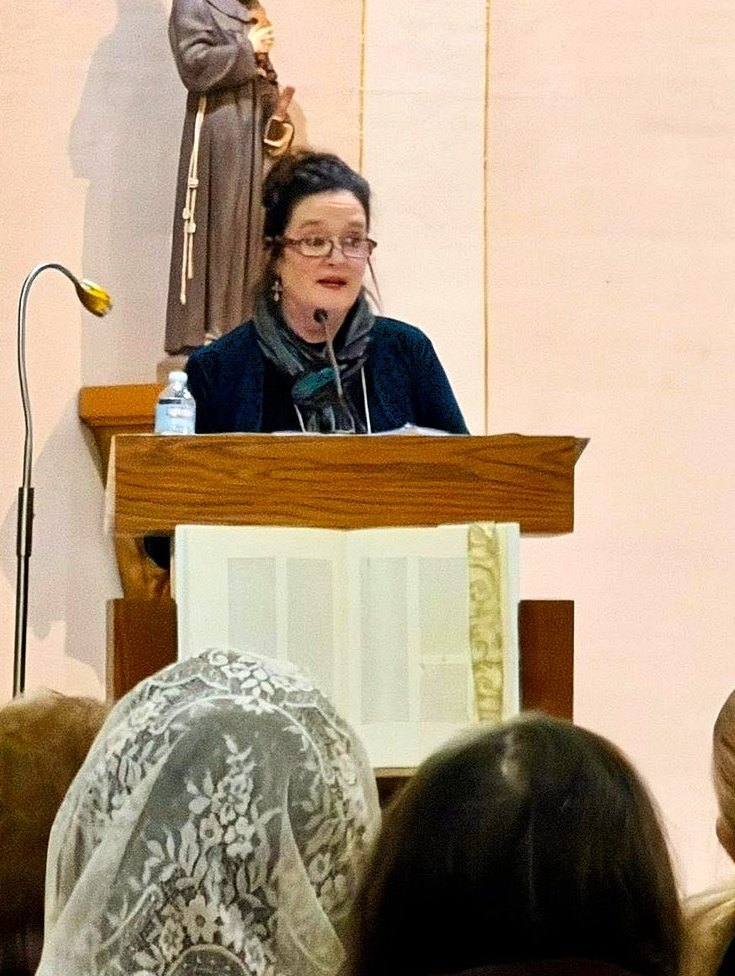
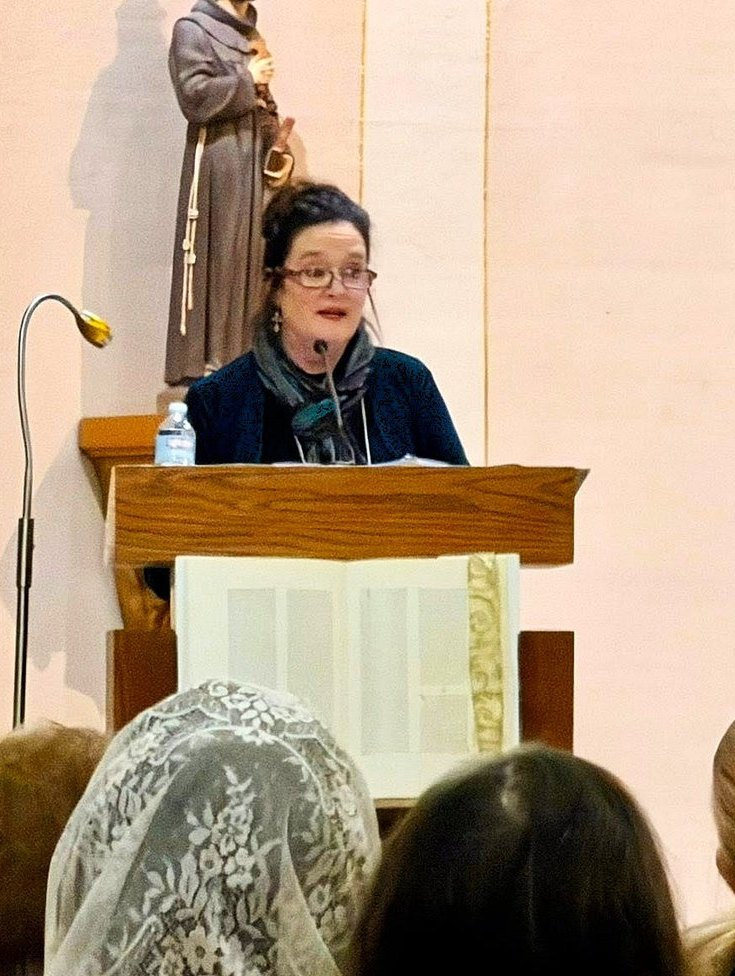
Morris tile: crop from very top and anchor object-position top so St. Francis statue head is never clipped

diff --git a/speaking.html b/speaking.html
@@ -1,4 +1,4 @@
-<!DOCTYPE html><html lang="en"><head><meta charset="UTF-8"/><meta name="viewport" content="width=device-width, initial-scale=1.0"/><title>Speaking &mdash; Roxane B. Salonen</title><meta name="description" content="Invite Roxane B. Salonen to speak: keynotes, retreats, writing workshops, and parish missions."/><meta property="og:title" content="Speaking &mdash; Roxane B. Salonen"/><meta property="og:description" content="Invite Roxane B. Salonen to speak: keynotes, retreats, writing workshops, and parish missions."/><meta property="og:type" content="website"/><link rel="preconnect" href="https://fonts.googleapis.com"><link rel="preconnect" href="https://fonts.gstatic.com" crossorigin><link href="https://fonts.googleapis.com/css2?family=Fraunces:ital,opsz,wght@0,9..144,300;0,9..144,400;0,9..144,500;0,9..144,600;1,9..144,300;1,9..144,400;1,9..144,500;1,9..144,600&family=Hanken+Grotesk:wght@400;500;600;700&family=Great+Vibes&display=swap" rel="stylesheet"><link rel="icon" href="favicon.svg" type="image/svg+xml"><link rel="icon" href="favicon-32.png" sizes="32x32" type="image/png"><link rel="apple-touch-icon" href="apple-touch-icon.png"><link rel="stylesheet" href="styles.css?v=166a2afe"></head><body><svg width="0" height="0" style="position:absolute" aria-hidden="true"><symbol id="rose" viewBox="0 0 100 100"><g fill="currentColor"><ellipse cx="50" cy="24" rx="8" ry="18" transform="rotate(0 50 50)"/><ellipse cx="50" cy="24" rx="8" ry="18" transform="rotate(45 50 50)"/><ellipse cx="50" cy="24" rx="8" ry="18" transform="rotate(90 50 50)"/><ellipse cx="50" cy="24" rx="8" ry="18" transform="rotate(135 50 50)"/><ellipse cx="50" cy="24" rx="8" ry="18" transform="rotate(180 50 50)"/><ellipse cx="50" cy="24" rx="8" ry="18" transform="rotate(225 50 50)"/><ellipse cx="50" cy="24" rx="8" ry="18" transform="rotate(270 50 50)"/><ellipse cx="50" cy="24" rx="8" ry="18" transform="rotate(315 50 50)"/></g><circle cx="50" cy="50" r="13" fill="#E0A92E"/><circle cx="50" cy="50" r="6" fill="#5a3a1a"/></symbol></svg><header class="nav"><div class="wrap nav-inner"><a class="brand" href="index.html"><svg class="bloom" viewBox="0 0 100 100" style="color:var(--rose)"><use href="#rose"/></svg>Roxane&nbsp;B.&nbsp;Salonen</a><nav class="nav-links" id="navlinks"><a href="about.html">About</a><a href="media.html">Seen &amp; Heard</a><a href="writings.html">Writings</a><a href="speaking.html" class="active">Speaking</a><a href="books.html">Books</a><a href="awards.html">Awards</a><a href="photos.html">Photos</a><a class="nav-cta" href="contact.html">Invite to speak</a></nav><button class="menu-btn" id="menuBtn" aria-label="Menu" aria-expanded="false"><svg viewBox="0 0 24 24" fill="none" stroke="currentColor" stroke-width="2"><path d="M3 6h18M3 12h18M3 18h18"/></svg></button></div></header><section class="page-head page-head-photo"><div class="wrap"><div class="ph-grid"><div class="inner reveal"><div class="crumb"><a href="index.html">Home</a> &middot; Speaking</div><h1>Invite Roxane to your <span class="ital">event.</span></h1><p>For more than two decades, Roxane has spoken to women&rsquo;s groups, parishes, conferences, and writers&rsquo; gatherings &mdash; from keynotes and co-led retreats to school author visits.</p></div><div class="ph-photo reveal"><img src="images/roxane-reading.jpg" alt="Roxane giving a reading from Redeemed by Grace" loading="eager" style="object-position:60% 20%"></div></div></div></section><section class="sec speaking"><div class="wrap"><div class="speak-grid"><div class="reveal"><div class="eyebrow">What she offers</div><h2 style="font-size:clamp(1.8rem,3.4vw,2.5rem);margin:12px 0 16px;color:#fff">Keynotes, retreats, and author visits.</h2><ul class="speak-list"><li><span class="tick"><svg viewBox="0 0 24 24" fill="none" stroke="currentColor" stroke-width="3"><path d="M20 6L9 17l-5-5"/></svg></span>Keynotes &amp; retreats for women of faith</li><li><span class="tick"><svg viewBox="0 0 24 24" fill="none" stroke="currentColor" stroke-width="3"><path d="M20 6L9 17l-5-5"/></svg></span>Writing &amp; storytelling workshops</li><li><span class="tick"><svg viewBox="0 0 24 24" fill="none" stroke="currentColor" stroke-width="3"><path d="M20 6L9 17l-5-5"/></svg></span>Parish missions &amp; book talks</li></ul><a class="btn btn-poppy" href="contact.html">Check her availability <svg viewBox="0 0 24 24" fill="none" stroke="currentColor" stroke-width="2"><path d="M5 12h14M13 6l6 6-6 6"/></svg></a><div style="display:flex;gap:16px;margin-top:30px"><div class="speak-photo" style="flex:1;aspect-ratio:4/5"><img src="images/roxane-speaking-morris-tight.jpg" alt="Roxane speaking at a parish event in Morris, Minnesota, March 2026" loading="lazy" style="object-position:center 30%"></div><div class="speak-photo" style="flex:1;aspect-ratio:4/5"><img src="images/roxane-parish-mission.jpg" alt="Roxane before giving a parish mission in Grand Forks, Lent 2026" loading="lazy" style="object-position:center 18%"></div></div></div><div class="speak-card reveal"><h3>What she speaks on</h3><!--PILLARS:START--><p style="font-size:1rem">Roxane returns again and again to three wells:</p><p style="font-size:.98rem;color:var(--ink)"><b style="color:var(--red)">Pro-life witness</b> &mdash; hope, healing, and stories from years of front-line advocacy.<br><br><b style="color:var(--red)">Soothing the sorrowing heart</b> &mdash; consolation for those whose loved ones have left the faith — in the spirit of St. Monica and Our Lady of Sorrows.<br><br><b style="color:var(--red)">Surrender &amp; spiritual enrichment</b> &mdash; surrender as a way of life; she has co-led retreats on this theme.<br><br><b style="color:var(--red)">The writing life</b> &mdash; author presentations for schools and workshops for writers of every age.</p><!--PILLARS:END--><!--TOPICS:START--><div class="topics"><span>Pro-life witness</span><span>Soothing the sorrowing heart</span><span>Surrender &amp; spiritual enrichment</span><span>The writing life</span><span>Faith &amp; family</span></div><!--TOPICS:END--><a class="btn btn-green" href="mailto:[email redacted]?subject=Speaking%20inquiry" style="width:100%;justify-content:center">Email Roxane</a></div></div></div></section><footer><div class="wrap"><div class="foot-grid"><div><div class="foot-brand"><svg class="bloom" viewBox="0 0 100 100" style="color:var(--rose)"><use href="#rose"/></svg>Roxane B. Salonen</div><p class="foot-bless">"Hello, friend — I pray your visit brings refreshment. Blessings &amp; peace."</p><div class="foot-social"><a href="https://www.facebook.com/roxanesalonen" target="_blank" rel="noopener" aria-label="Facebook"><svg viewBox="0 0 24 24"><path d="M22 12a10 10 0 10-11.6 9.9v-7H7.9V12h2.5V9.8c0-2.5 1.5-3.9 3.8-3.9 1.1 0 2.2.2 2.2.2v2.5h-1.2c-1.2 0-1.6.8-1.6 1.6V12h2.7l-.4 2.9h-2.3v7A10 10 0 0022 12z"/></svg></a><a href="https://www.instagram.com/mommaroxie/" target="_blank" rel="noopener" aria-label="Instagram"><svg viewBox="0 0 24 24"><path d="M12 2.2c3.2 0 3.6 0 4.9.1 1.2.1 1.8.3 2.2.4.6.2 1 .5 1.4.9.4.4.7.8.9 1.4.2.4.4 1 .4 2.2.1 1.3.1 1.7.1 4.9s0 3.6-.1 4.9c-.1 1.2-.3 1.8-.4 2.2-.2.6-.5 1-.9 1.4-.4.4-.8.7-1.4.9-.4.2-1 .4-2.2.4-1.3.1-1.7.1-4.9.1s-3.6 0-4.9-.1c-1.2-.1-1.8-.3-2.2-.4-.6-.2-1-.5-1.4-.9-.4-.4-.7-.8-.9-1.4-.2-.4-.4-1-.4-2.2-.1-1.3-.1-1.7-.1-4.9s0-3.6.1-4.9c.1-1.2.3-1.8.4-2.2.2-.6.5-1 .9-1.4.4-.4.8-.7 1.4-.9.4-.2 1-.4 2.2-.4 1.3-.1 1.7-.1 4.9-.1zm0 1.8c-3.1 0-3.5 0-4.7.1-1.1.1-1.7.2-2.1.4-.5.2-.9.4-1.3.8-.4.4-.6.8-.8 1.3-.2.4-.3 1-.4 2.1-.1 1.2-.1 1.6-.1 4.7s0 3.5.1 4.7c.1 1.1.2 1.7.4 2.1.2.5.4.9.8 1.3.4.4.8.6 1.3.8.4.2 1 .3 2.1.4 1.2.1 1.6.1 4.7.1s3.5 0 4.7-.1c1.1-.1 1.7-.2 2.1-.4.5-.2.9-.4 1.3-.8.4-.4.6-.8.8-1.3.2-.4.3-1 .4-2.1.1-1.2.1-1.6.1-4.7s0-3.5-.1-4.7c-.1-1.1-.2-1.7-.4-2.1-.2-.5-.4-.9-.8-1.3-.4-.4-.8-.6-1.3-.8-.4-.2-1-.3-2.1-.4-1.2-.1-1.6-.1-4.7-.1zm0 3.1a4.9 4.9 0 110 9.8 4.9 4.9 0 010-9.8zm0 8.1a3.2 3.2 0 100-6.4 3.2 3.2 0 000 6.4zm6.2-8.3a1.1 1.1 0 11-2.3 0 1.1 1.1 0 012.3 0z"/></svg></a><a href="https://www.pinterest.com/rbsalonen/" target="_blank" rel="noopener" aria-label="Pinterest"><svg viewBox="0 0 24 24"><path d="M12 2C6.5 2 2 6.5 2 12c0 4.2 2.6 7.8 6.3 9.2-.1-.8-.2-2 0-2.9.2-.8 1.2-5.2 1.2-5.2s-.3-.6-.3-1.5c0-1.4.8-2.4 1.8-2.4.9 0 1.3.6 1.3 1.4 0 .9-.5 2.1-.8 3.3-.2.9.5 1.7 1.4 1.7 1.7 0 3-1.8 3-4.4 0-2.3-1.6-3.9-4-3.9-2.7 0-4.3 2-4.3 4.1 0 .8.3 1.7.7 2.2.1.1.1.2.1.3l-.3 1.1c0 .2-.1.2-.3.1-1.2-.6-1.9-2.3-1.9-3.7 0-3 2.2-5.8 6.4-5.8 3.3 0 5.9 2.4 5.9 5.6 0 3.3-2.1 6-5 6-1 0-1.9-.5-2.2-1.1l-.6 2.3c-.2.8-.8 1.9-1.2 2.5.9.3 1.8.4 2.8.4 5.5 0 10-4.5 10-10S17.5 2 12 2z"/></svg></a><a href="https://twitter.com/peacegardenmama" target="_blank" rel="noopener" aria-label="X (Twitter)"><svg viewBox="0 0 24 24"><path d="M18.9 2H22l-7.5 8.6L23 22h-6.8l-5-6.6L5.4 22H2.3l8-9.2L1.7 2h7l4.5 6 5.7-6zm-1.2 18h1.9L7.1 4H5.1l12.6 16z"/></svg></a></div></div><div><h5>Explore</h5><ul><li><a href="index.html">Home</a></li><li><a href="about.html">About</a></li><li><a href="speaking.html">Speaking</a></li><li><a href="podcast.html">Podcast</a></li></ul></div><div class="foot-col-books"><h5>Read</h5><ul><li><a href="books.html">Books</a></li><li><a href="writings.html">Writings</a></li><li><a href="blog/index.html">Blog archive</a></li><li><a href="awards.html">Awards</a></li><li><a href="media.html">Seen &amp; Heard</a></li><li><a href="photos.html">Photos</a></li></ul></div><div><h5>Follow &amp; read</h5><ul><li><a href="https://roxanesalonen.substack.com/" target="_blank" rel="noopener">Substack &#8599;</a></li><li><a href="https://twitter.com/peacegardenmama" target="_blank" rel="noopener">X (Twitter) &#8599;</a></li><li><a href="https://open.spotify.com/show/296bQyPuaHgJTR0hAiP6rf" target="_blank" rel="noopener">Podcast &#8599;</a></li><li><a href="https://enroutebooksandmedia.com/findingflannery/" target="_blank" rel="noopener">Finding Flannery &#8599;</a></li><li><a href="mailto:[email redacted]">Email</a></li></ul></div></div><p class="foot-stein">&ldquo;God is truth. All who seek truth seek God, whether this is clear to them or not.&rdquo;<b>&mdash; St. Edith Stein, patroness of Peace Garden Passage</b></p><div class="foot-bottom"><span>&copy; <span id="yr"></span> Roxane B. Salonen &middot; Fargo, North Dakota &middot; Site by <a href="https://lickitysplitweb.com/" target="_blank" rel="noopener" style="color:inherit;text-decoration:underline;text-underline-offset:3px">Lickity Split Web Design</a></span><span>Peace Garden Passage &middot; <a href="admin/" style="color:inherit;text-decoration:underline;text-underline-offset:3px;opacity:.8">Site editor</a></span></div></div></footer><script>
+<!DOCTYPE html><html lang="en"><head><meta charset="UTF-8"/><meta name="viewport" content="width=device-width, initial-scale=1.0"/><title>Speaking &mdash; Roxane B. Salonen</title><meta name="description" content="Invite Roxane B. Salonen to speak: keynotes, retreats, writing workshops, and parish missions."/><meta property="og:title" content="Speaking &mdash; Roxane B. Salonen"/><meta property="og:description" content="Invite Roxane B. Salonen to speak: keynotes, retreats, writing workshops, and parish missions."/><meta property="og:type" content="website"/><link rel="preconnect" href="https://fonts.googleapis.com"><link rel="preconnect" href="https://fonts.gstatic.com" crossorigin><link href="https://fonts.googleapis.com/css2?family=Fraunces:ital,opsz,wght@0,9..144,300;0,9..144,400;0,9..144,500;0,9..144,600;1,9..144,300;1,9..144,400;1,9..144,500;1,9..144,600&family=Hanken+Grotesk:wght@400;500;600;700&family=Great+Vibes&display=swap" rel="stylesheet"><link rel="icon" href="favicon.svg" type="image/svg+xml"><link rel="icon" href="favicon-32.png" sizes="32x32" type="image/png"><link rel="apple-touch-icon" href="apple-touch-icon.png"><link rel="stylesheet" href="styles.css?v=166a2afe"></head><body><svg width="0" height="0" style="position:absolute" aria-hidden="true"><symbol id="rose" viewBox="0 0 100 100"><g fill="currentColor"><ellipse cx="50" cy="24" rx="8" ry="18" transform="rotate(0 50 50)"/><ellipse cx="50" cy="24" rx="8" ry="18" transform="rotate(45 50 50)"/><ellipse cx="50" cy="24" rx="8" ry="18" transform="rotate(90 50 50)"/><ellipse cx="50" cy="24" rx="8" ry="18" transform="rotate(135 50 50)"/><ellipse cx="50" cy="24" rx="8" ry="18" transform="rotate(180 50 50)"/><ellipse cx="50" cy="24" rx="8" ry="18" transform="rotate(225 50 50)"/><ellipse cx="50" cy="24" rx="8" ry="18" transform="rotate(270 50 50)"/><ellipse cx="50" cy="24" rx="8" ry="18" transform="rotate(315 50 50)"/></g><circle cx="50" cy="50" r="13" fill="#E0A92E"/><circle cx="50" cy="50" r="6" fill="#5a3a1a"/></symbol></svg><header class="nav"><div class="wrap nav-inner"><a class="brand" href="index.html"><svg class="bloom" viewBox="0 0 100 100" style="color:var(--rose)"><use href="#rose"/></svg>Roxane&nbsp;B.&nbsp;Salonen</a><nav class="nav-links" id="navlinks"><a href="about.html">About</a><a href="media.html">Seen &amp; Heard</a><a href="writings.html">Writings</a><a href="speaking.html" class="active">Speaking</a><a href="books.html">Books</a><a href="awards.html">Awards</a><a href="photos.html">Photos</a><a class="nav-cta" href="contact.html">Invite to speak</a></nav><button class="menu-btn" id="menuBtn" aria-label="Menu" aria-expanded="false"><svg viewBox="0 0 24 24" fill="none" stroke="currentColor" stroke-width="2"><path d="M3 6h18M3 12h18M3 18h18"/></svg></button></div></header><section class="page-head page-head-photo"><div class="wrap"><div class="ph-grid"><div class="inner reveal"><div class="crumb"><a href="index.html">Home</a> &middot; Speaking</div><h1>Invite Roxane to your <span class="ital">event.</span></h1><p>For more than two decades, Roxane has spoken to women&rsquo;s groups, parishes, conferences, and writers&rsquo; gatherings &mdash; from keynotes and co-led retreats to school author visits.</p></div><div class="ph-photo reveal"><img src="images/roxane-reading.jpg" alt="Roxane giving a reading from Redeemed by Grace" loading="eager" style="object-position:60% 20%"></div></div></div></section><section class="sec speaking"><div class="wrap"><div class="speak-grid"><div class="reveal"><div class="eyebrow">What she offers</div><h2 style="font-size:clamp(1.8rem,3.4vw,2.5rem);margin:12px 0 16px;color:#fff">Keynotes, retreats, and author visits.</h2><ul class="speak-list"><li><span class="tick"><svg viewBox="0 0 24 24" fill="none" stroke="currentColor" stroke-width="3"><path d="M20 6L9 17l-5-5"/></svg></span>Keynotes &amp; retreats for women of faith</li><li><span class="tick"><svg viewBox="0 0 24 24" fill="none" stroke="currentColor" stroke-width="3"><path d="M20 6L9 17l-5-5"/></svg></span>Writing &amp; storytelling workshops</li><li><span class="tick"><svg viewBox="0 0 24 24" fill="none" stroke="currentColor" stroke-width="3"><path d="M20 6L9 17l-5-5"/></svg></span>Parish missions &amp; book talks</li></ul><a class="btn btn-poppy" href="contact.html">Check her availability <svg viewBox="0 0 24 24" fill="none" stroke="currentColor" stroke-width="2"><path d="M5 12h14M13 6l6 6-6 6"/></svg></a><div style="display:flex;gap:16px;margin-top:30px"><div class="speak-photo" style="flex:1;aspect-ratio:4/5"><img src="images/roxane-speaking-morris-tight.jpg?v=2" alt="Roxane speaking at a parish event in Morris, Minnesota, March 2026" loading="lazy" style="object-position:center top"></div><div class="speak-photo" style="flex:1;aspect-ratio:4/5"><img src="images/roxane-parish-mission.jpg" alt="Roxane before giving a parish mission in Grand Forks, Lent 2026" loading="lazy" style="object-position:center 18%"></div></div></div><div class="speak-card reveal"><h3>What she speaks on</h3><!--PILLARS:START--><p style="font-size:1rem">Roxane returns again and again to three wells:</p><p style="font-size:.98rem;color:var(--ink)"><b style="color:var(--red)">Pro-life witness</b> &mdash; hope, healing, and stories from years of front-line advocacy.<br><br><b style="color:var(--red)">Soothing the sorrowing heart</b> &mdash; consolation for those whose loved ones have left the faith — in the spirit of St. Monica and Our Lady of Sorrows.<br><br><b style="color:var(--red)">Surrender &amp; spiritual enrichment</b> &mdash; surrender as a way of life; she has co-led retreats on this theme.<br><br><b style="color:var(--red)">The writing life</b> &mdash; author presentations for schools and workshops for writers of every age.</p><!--PILLARS:END--><!--TOPICS:START--><div class="topics"><span>Pro-life witness</span><span>Soothing the sorrowing heart</span><span>Surrender &amp; spiritual enrichment</span><span>The writing life</span><span>Faith &amp; family</span></div><!--TOPICS:END--><a class="btn btn-green" href="mailto:[email redacted]?subject=Speaking%20inquiry" style="width:100%;justify-content:center">Email Roxane</a></div></div></div></section><footer><div class="wrap"><div class="foot-grid"><div><div class="foot-brand"><svg class="bloom" viewBox="0 0 100 100" style="color:var(--rose)"><use href="#rose"/></svg>Roxane B. Salonen</div><p class="foot-bless">"Hello, friend — I pray your visit brings refreshment. Blessings &amp; peace."</p><div class="foot-social"><a href="https://www.facebook.com/roxanesalonen" target="_blank" rel="noopener" aria-label="Facebook"><svg viewBox="0 0 24 24"><path d="M22 12a10 10 0 10-11.6 9.9v-7H7.9V12h2.5V9.8c0-2.5 1.5-3.9 3.8-3.9 1.1 0 2.2.2 2.2.2v2.5h-1.2c-1.2 0-1.6.8-1.6 1.6V12h2.7l-.4 2.9h-2.3v7A10 10 0 0022 12z"/></svg></a><a href="https://www.instagram.com/mommaroxie/" target="_blank" rel="noopener" aria-label="Instagram"><svg viewBox="0 0 24 24"><path d="M12 2.2c3.2 0 3.6 0 4.9.1 1.2.1 1.8.3 2.2.4.6.2 1 .5 1.4.9.4.4.7.8.9 1.4.2.4.4 1 .4 2.2.1 1.3.1 1.7.1 4.9s0 3.6-.1 4.9c-.1 1.2-.3 1.8-.4 2.2-.2.6-.5 1-.9 1.4-.4.4-.8.7-1.4.9-.4.2-1 .4-2.2.4-1.3.1-1.7.1-4.9.1s-3.6 0-4.9-.1c-1.2-.1-1.8-.3-2.2-.4-.6-.2-1-.5-1.4-.9-.4-.4-.7-.8-.9-1.4-.2-.4-.4-1-.4-2.2-.1-1.3-.1-1.7-.1-4.9s0-3.6.1-4.9c.1-1.2.3-1.8.4-2.2.2-.6.5-1 .9-1.4.4-.4.8-.7 1.4-.9.4-.2 1-.4 2.2-.4 1.3-.1 1.7-.1 4.9-.1zm0 1.8c-3.1 0-3.5 0-4.7.1-1.1.1-1.7.2-2.1.4-.5.2-.9.4-1.3.8-.4.4-.6.8-.8 1.3-.2.4-.3 1-.4 2.1-.1 1.2-.1 1.6-.1 4.7s0 3.5.1 4.7c.1 1.1.2 1.7.4 2.1.2.5.4.9.8 1.3.4.4.8.6 1.3.8.4.2 1 .3 2.1.4 1.2.1 1.6.1 4.7.1s3.5 0 4.7-.1c1.1-.1 1.7-.2 2.1-.4.5-.2.9-.4 1.3-.8.4-.4.6-.8.8-1.3.2-.4.3-1 .4-2.1.1-1.2.1-1.6.1-4.7s0-3.5-.1-4.7c-.1-1.1-.2-1.7-.4-2.1-.2-.5-.4-.9-.8-1.3-.4-.4-.8-.6-1.3-.8-.4-.2-1-.3-2.1-.4-1.2-.1-1.6-.1-4.7-.1zm0 3.1a4.9 4.9 0 110 9.8 4.9 4.9 0 010-9.8zm0 8.1a3.2 3.2 0 100-6.4 3.2 3.2 0 000 6.4zm6.2-8.3a1.1 1.1 0 11-2.3 0 1.1 1.1 0 012.3 0z"/></svg></a><a href="https://www.pinterest.com/rbsalonen/" target="_blank" rel="noopener" aria-label="Pinterest"><svg viewBox="0 0 24 24"><path d="M12 2C6.5 2 2 6.5 2 12c0 4.2 2.6 7.8 6.3 9.2-.1-.8-.2-2 0-2.9.2-.8 1.2-5.2 1.2-5.2s-.3-.6-.3-1.5c0-1.4.8-2.4 1.8-2.4.9 0 1.3.6 1.3 1.4 0 .9-.5 2.1-.8 3.3-.2.9.5 1.7 1.4 1.7 1.7 0 3-1.8 3-4.4 0-2.3-1.6-3.9-4-3.9-2.7 0-4.3 2-4.3 4.1 0 .8.3 1.7.7 2.2.1.1.1.2.1.3l-.3 1.1c0 .2-.1.2-.3.1-1.2-.6-1.9-2.3-1.9-3.7 0-3 2.2-5.8 6.4-5.8 3.3 0 5.9 2.4 5.9 5.6 0 3.3-2.1 6-5 6-1 0-1.9-.5-2.2-1.1l-.6 2.3c-.2.8-.8 1.9-1.2 2.5.9.3 1.8.4 2.8.4 5.5 0 10-4.5 10-10S17.5 2 12 2z"/></svg></a><a href="https://twitter.com/peacegardenmama" target="_blank" rel="noopener" aria-label="X (Twitter)"><svg viewBox="0 0 24 24"><path d="M18.9 2H22l-7.5 8.6L23 22h-6.8l-5-6.6L5.4 22H2.3l8-9.2L1.7 2h7l4.5 6 5.7-6zm-1.2 18h1.9L7.1 4H5.1l12.6 16z"/></svg></a></div></div><div><h5>Explore</h5><ul><li><a href="index.html">Home</a></li><li><a href="about.html">About</a></li><li><a href="speaking.html">Speaking</a></li><li><a href="podcast.html">Podcast</a></li></ul></div><div class="foot-col-books"><h5>Read</h5><ul><li><a href="books.html">Books</a></li><li><a href="writings.html">Writings</a></li><li><a href="blog/index.html">Blog archive</a></li><li><a href="awards.html">Awards</a></li><li><a href="media.html">Seen &amp; Heard</a></li><li><a href="photos.html">Photos</a></li></ul></div><div><h5>Follow &amp; read</h5><ul><li><a href="https://roxanesalonen.substack.com/" target="_blank" rel="noopener">Substack &#8599;</a></li><li><a href="https://twitter.com/peacegardenmama" target="_blank" rel="noopener">X (Twitter) &#8599;</a></li><li><a href="https://open.spotify.com/show/296bQyPuaHgJTR0hAiP6rf" target="_blank" rel="noopener">Podcast &#8599;</a></li><li><a href="https://enroutebooksandmedia.com/findingflannery/" target="_blank" rel="noopener">Finding Flannery &#8599;</a></li><li><a href="mailto:[email redacted]">Email</a></li></ul></div></div><p class="foot-stein">&ldquo;God is truth. All who seek truth seek God, whether this is clear to them or not.&rdquo;<b>&mdash; St. Edith Stein, patroness of Peace Garden Passage</b></p><div class="foot-bottom"><span>&copy; <span id="yr"></span> Roxane B. Salonen &middot; Fargo, North Dakota &middot; Site by <a href="https://lickitysplitweb.com/" target="_blank" rel="noopener" style="color:inherit;text-decoration:underline;text-underline-offset:3px">Lickity Split Web Design</a></span><span>Peace Garden Passage &middot; <a href="admin/" style="color:inherit;text-decoration:underline;text-underline-offset:3px;opacity:.8">Site editor</a></span></div></div></footer><script>
 var mb=document.getElementById('menuBtn'),nl=document.getElementById('navlinks');
 mb&&mb.addEventListener('click',function(){var o=nl.classList.toggle('open');mb.setAttribute('aria-expanded',o?'true':'false');});
 nl&&nl.addEventListener('click',function(e){if(e.target.tagName==='A'){nl.classList.remove('open');mb.setAttribute('aria-expanded','false');}});